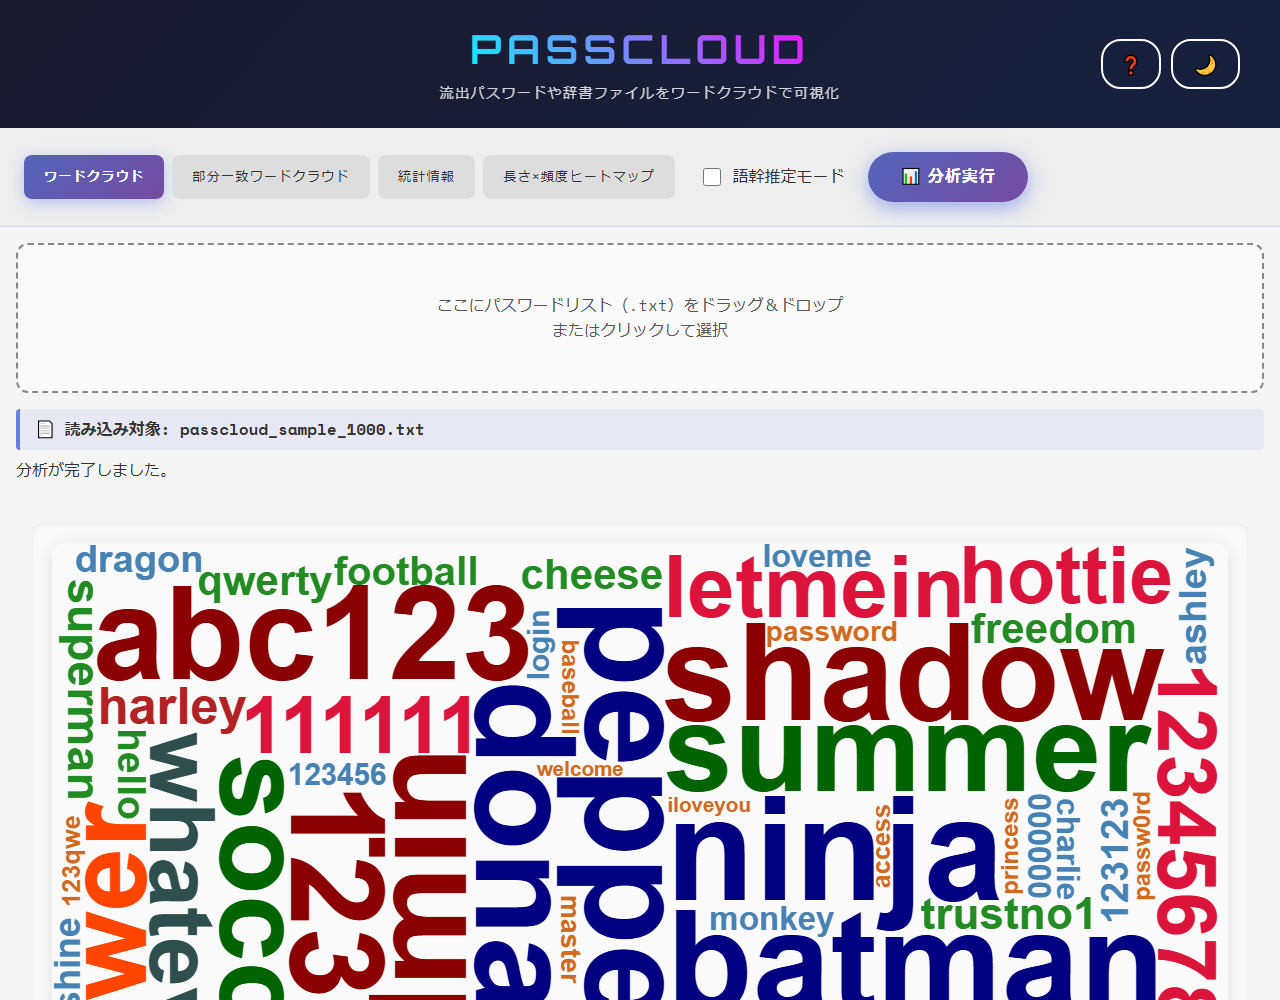
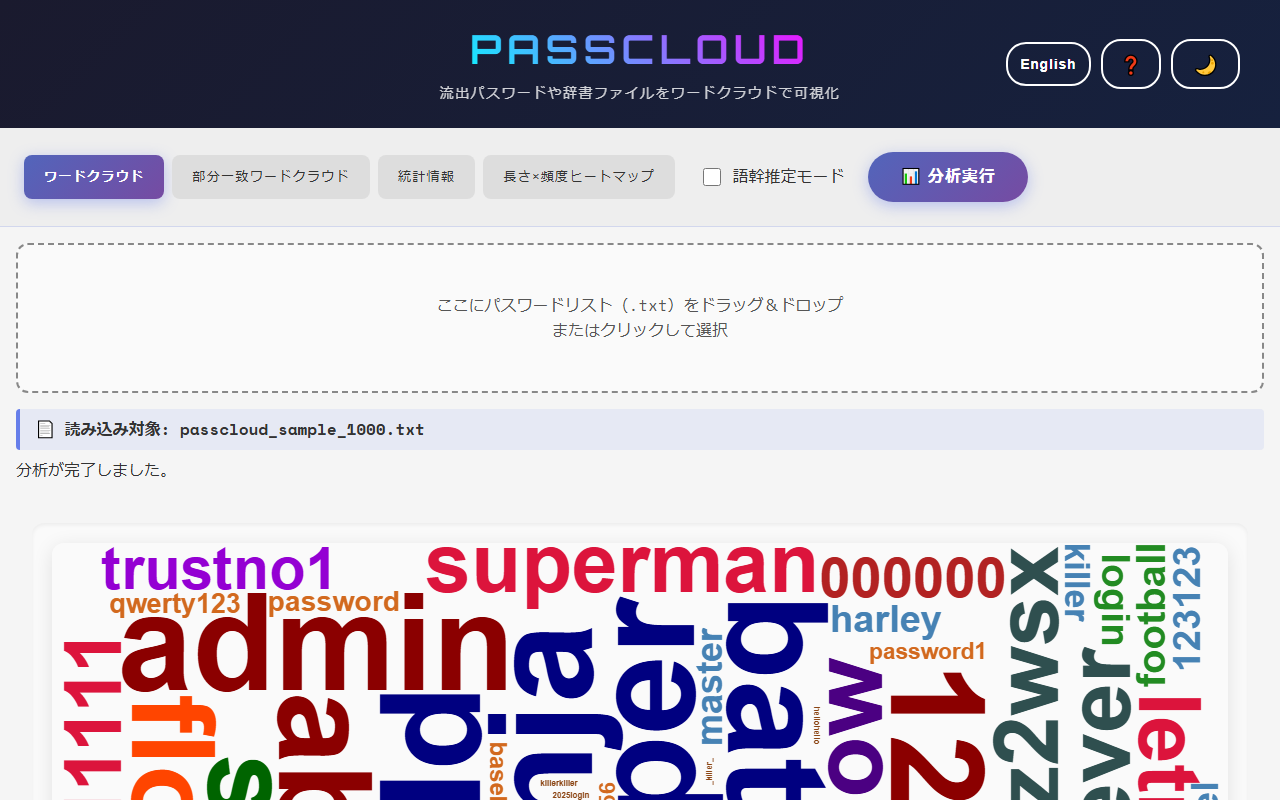
スクリーンショットを日英の現行画面で撮り直す
- 和文は4タブ分を撮り直し、英語UIの画面を assets/en/ に新設した
- どの画像もヘッダーごと写し、右上の言語ボタンが見えるようにした
- README.en.md が和文の画面を使い回していたのをやめ、assets/en/ を指す
- 英語版が和文の画像へ戻らないよう、readme.test.js に参照先の検証を足した

diff --git a/test/readme.test.js b/test/readme.test.js
@@ -64,9 +64,16 @@ test('README metadata structure, fixed values and image references', () => {
         'repo_url: "https://github.com/ipusiron/passcloud"', 'demo_url: "https://ipusiron.github.io/passcloud/"']) {
         assert.ok(metadata.split(/\r?\n/).includes(value));
     }
-    const images = [...readme.matchAll(/!\[[^\]]*\]\(([^)]+)\)/g)].map(match => match[1]).filter(src => !/^https?:/.test(src));
-    assert.deepEqual(images, ['assets/screenshot2.png', 'assets/screenshot3.png', 'assets/screenshot4.png']);
-    for (const src of images) assert.ok(fs.existsSync(path.join(root, src)), src);
+    const pictures = source => [...source.matchAll(/!\[[^\]]*\]\(([^)]+)\)/g)]
+        .map(match => match[1]).filter(src => !/^https?:/.test(src));
+    const images = pictures(readme);
+    assert.deepEqual(images, ['assets/screenshot2.png', 'assets/screenshot3.png',
+        'assets/screenshot4.png', 'assets/screenshot5.png']);
+    // 英語版が和文の画面を使い回すと、言語の切り替えを画像で示せない。英語版は assets/en/ だけを指す。
+    const imagesEn = pictures(fs.readFileSync(path.join(root, 'README.en.md'), 'utf8'));
+    assert.deepEqual(imagesEn, ['assets/en/screenshot.png', 'assets/en/screenshot2.png',
+        'assets/en/screenshot3.png', 'assets/en/screenshot4.png']);
+    for (const src of [...images, ...imagesEn]) assert.ok(fs.existsSync(path.join(root, src)), src);
 });
 
 function walk(directory, prefix = '') {

diff --git a/README.md b/README.md
@@ -56,14 +56,17 @@ hub: true
 
 ## 📸 スクリーンショット
 
-![ライトのワードクラウド](assets/screenshot2.png)
-> *サンプル1,005行を語幹推定OFFで分析したワードクラウド。*
+![ワードクラウド](assets/screenshot2.png)
+> *サンプル1,005行を語幹推定OFFで分析したワードクラウド。ヘッダー右上の「English」で英語表示に切り替わる。*
 
-![ダークのワードクラウド](assets/screenshot3.png)
-> *同じ分析結果をダークテーマで表示。*
+![部分一致ワードクラウド](assets/screenshot3.png)
+> *固定の語幹61語に前後する19語句を抜き出したところ。ダークテーマ。*
 
 ![サンプルの統計情報](assets/screenshot4.png)
 > *総数1,005・ユニーク67・平均長6.7、Top10の先頭はninjaが29回。*
+
+![長さ×頻度ヒートマップ](assets/screenshot5.png)
+> *6文字・11-20回のセルが14種類で最も濃い。ダークテーマ。*
 
 ---
 
@@ -361,6 +364,11 @@ passcloud/                             # アプリケーションのルート
 │   └── workflows/                     # GitHub Actions のワークフロー
 │       └── test.yml                   # push と pull_request で npm test を実行する
 ├── assets/                            # スクリーンショットとフォント
+│   ├── en/                            # 英語UIの画面（README.en.md から参照する）
+│   │   ├── screenshot.png             # ワードクラウドのタブ（ライトテーマ）
+│   │   ├── screenshot2.png            # 部分一致ワードクラウドのタブ（ダークテーマ）
+│   │   ├── screenshot3.png            # 統計情報のタブ（基本統計・Top10）
+│   │   └── screenshot4.png            # 長さ×頻度ヒートマップのタブ（ダークテーマ）
 │   ├── fonts/                         # 自前ホストする Web フォント（外部への接続をなくすため）
 │   │   ├── OFL-Orbitron.txt           # Orbitron の SIL Open Font License 1.1
 │   │   ├── OFL-SpaceMono.txt          # Space Mono の SIL Open Font License 1.1
@@ -368,9 +376,10 @@ passcloud/                             # アプリケーションのルート
 │   │   ├── spacemono-400-latin.woff2  # 本文用 Space Mono Regular（latin サブセット）
 │   │   └── spacemono-700-latin.woff2  # 本文用 Space Mono Bold（latin サブセット）
 │   ├── screenshot.png                 # 旧版の画面（改修前。README からは参照していない）
-│   ├── screenshot2.png                # ライトテーマのワードクラウド（サンプルを分析した直後）
-│   ├── screenshot3.png                # 同じ状態のダークテーマ
-│   └── screenshot4.png                # 統計情報のタブ（基本統計・Top10・長さ別分布）
+│   ├── screenshot2.png                # ワードクラウドのタブ（ライトテーマ）
+│   ├── screenshot3.png                # 部分一致ワードクラウドのタブ（ダークテーマ）
+│   ├── screenshot4.png                # 統計情報のタブ（基本統計・Top10）
+│   └── screenshot5.png                # 長さ×頻度ヒートマップのタブ（ダークテーマ）
 ├── css/                               # スタイルシート（main.css が他を読み込む）
 │   ├── base.css                       # 配色の CSS 変数・フォント定義・共通レイアウト
 │   ├── heatmap.css                    # 長さ×頻度ヒートマップの見た目

diff --git a/README.en.md b/README.en.md
@@ -19,14 +19,17 @@ English · [日本語](README.md)
 
 ## 📸 Screenshots
 
-![Word cloud, light theme](assets/screenshot2.png)
-> *The bundled 1,005-line sample analyzed with stem estimation off.*
+![Word cloud](assets/en/screenshot.png)
+> *The bundled 1,005-line sample analyzed with stem estimation off. The button at the top right switches back to Japanese.*
 
-![Word cloud, dark theme](assets/screenshot3.png)
-> *The same result in the dark theme.*
+![Partial-match word cloud](assets/en/screenshot2.png)
+> *The 19 phrases found around the 61 fixed stems, in the dark theme.*
 
-![Statistics for the sample](assets/screenshot4.png)
+![Statistics for the sample](assets/en/screenshot3.png)
 > *1,005 entries, 67 unique, average length 6.7. The top entry is ninja with 29 occurrences.*
+
+![Length x frequency heatmap](assets/en/screenshot4.png)
+> *The cell for 6 characters and 11-20 occurrences holds 14 of them, the deepest of the grid. Dark theme.*
 
 ---
 
@@ -325,6 +328,11 @@ passcloud/                             # the root of the application
 │   └── workflows/                     # GitHub Actions workflows
 │       └── test.yml                   # runs npm test on push and pull_request
 ├── assets/                            # screenshots and fonts
+│   ├── en/                            # the screens of the English interface (used by README.en.md)
+│   │   ├── screenshot.png             # the word cloud tab (light theme)
+│   │   ├── screenshot2.png            # the partial-match word cloud tab (dark theme)
+│   │   ├── screenshot3.png            # the statistics tab (basic values and the top 10)
+│   │   └── screenshot4.png            # the length x frequency heatmap tab (dark theme)
 │   ├── fonts/                         # self-hosted web fonts (so nothing is fetched)
 │   │   ├── OFL-Orbitron.txt           # SIL Open Font License 1.1 for Orbitron
 │   │   ├── OFL-SpaceMono.txt          # SIL Open Font License 1.1 for Space Mono
@@ -332,9 +340,10 @@ passcloud/                             # the root of the application
 │   │   ├── spacemono-400-latin.woff2  # Space Mono Regular for body text (latin subset)
 │   │   └── spacemono-700-latin.woff2  # Space Mono Bold for body text (latin subset)
 │   ├── screenshot.png                 # the old screen (before the rework; not linked from the README)
-│   ├── screenshot2.png                # word cloud in the light theme (right after the sample was analyzed)
-│   ├── screenshot3.png                # the same state in the dark theme
-│   └── screenshot4.png                # the statistics tab (basic, top 10, distribution by length)
+│   ├── screenshot2.png                # the word cloud tab (light theme)
+│   ├── screenshot3.png                # the partial-match word cloud tab (dark theme)
+│   ├── screenshot4.png                # the statistics tab (basic values and the top 10)
+│   └── screenshot5.png                # the length x frequency heatmap tab (dark theme)
 ├── css/                               # stylesheets (main.css pulls in the rest)
 │   ├── base.css                       # colour variables, font faces and the shared layout
 │   ├── heatmap.css                    # the look of the length x frequency heatmap

diff --git a/CLAUDE.md b/CLAUDE.md
@@ -31,6 +31,11 @@ passcloud/                             # アプリケーションのルート
 │   └── workflows/                     # GitHub Actions のワークフロー
 │       └── test.yml                   # push と pull_request で npm test を実行する
 ├── assets/                            # スクリーンショットとフォント
+│   ├── en/                            # 英語UIの画面（README.en.md から参照する）
+│   │   ├── screenshot.png             # ワードクラウドのタブ（ライトテーマ）
+│   │   ├── screenshot2.png            # 部分一致ワードクラウドのタブ（ダークテーマ）
+│   │   ├── screenshot3.png            # 統計情報のタブ（基本統計・Top10）
+│   │   └── screenshot4.png            # 長さ×頻度ヒートマップのタブ（ダークテーマ）
 │   ├── fonts/                         # 自前ホストする Web フォント（外部への接続をなくすため）
 │   │   ├── OFL-Orbitron.txt           # Orbitron の SIL Open Font License 1.1
 │   │   ├── OFL-SpaceMono.txt          # Space Mono の SIL Open Font License 1.1
@@ -38,9 +43,10 @@ passcloud/                             # アプリケーションのルート
 │   │   ├── spacemono-400-latin.woff2  # 本文用 Space Mono Regular（latin サブセット）
 │   │   └── spacemono-700-latin.woff2  # 本文用 Space Mono Bold（latin サブセット）
 │   ├── screenshot.png                 # 旧版の画面（改修前。README からは参照していない）
-│   ├── screenshot2.png                # ライトテーマのワードクラウド（サンプルを分析した直後）
-│   ├── screenshot3.png                # 同じ状態のダークテーマ
-│   └── screenshot4.png                # 統計情報のタブ（基本統計・Top10・長さ別分布）
+│   ├── screenshot2.png                # ワードクラウドのタブ（ライトテーマ）
+│   ├── screenshot3.png                # 部分一致ワードクラウドのタブ（ダークテーマ）
+│   ├── screenshot4.png                # 統計情報のタブ（基本統計・Top10）
+│   └── screenshot5.png                # 長さ×頻度ヒートマップのタブ（ダークテーマ）
 ├── css/                               # スタイルシート（main.css が他を読み込む）
 │   ├── base.css                       # 配色の CSS 変数・フォント定義・共通レイアウト
 │   ├── heatmap.css                    # 長さ×頻度ヒートマップの見た目
